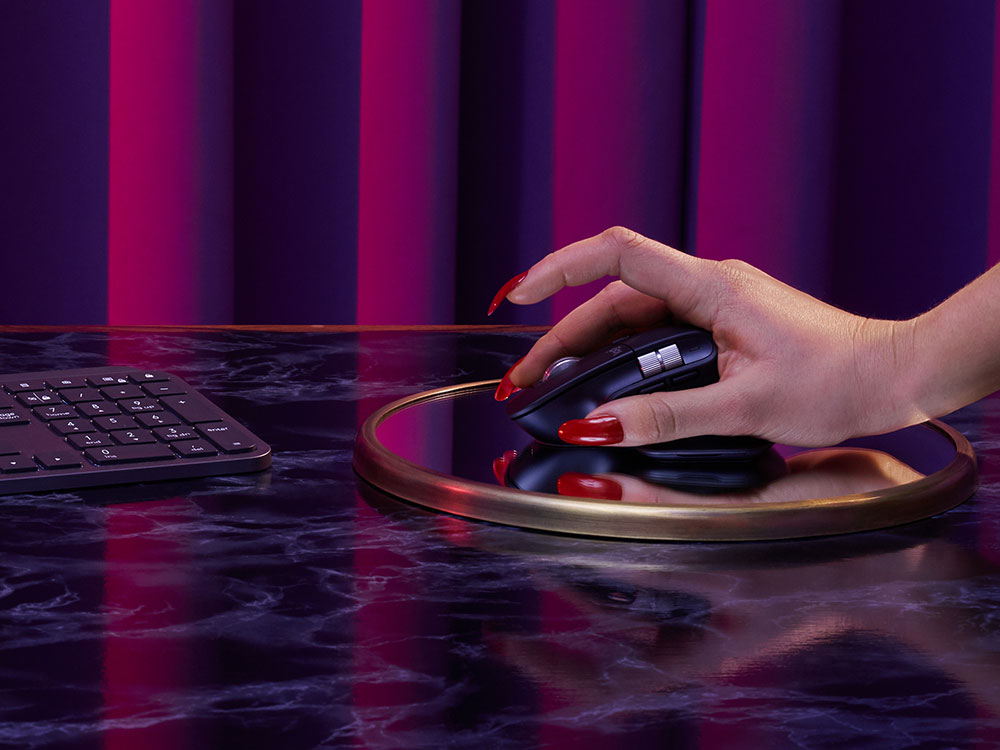
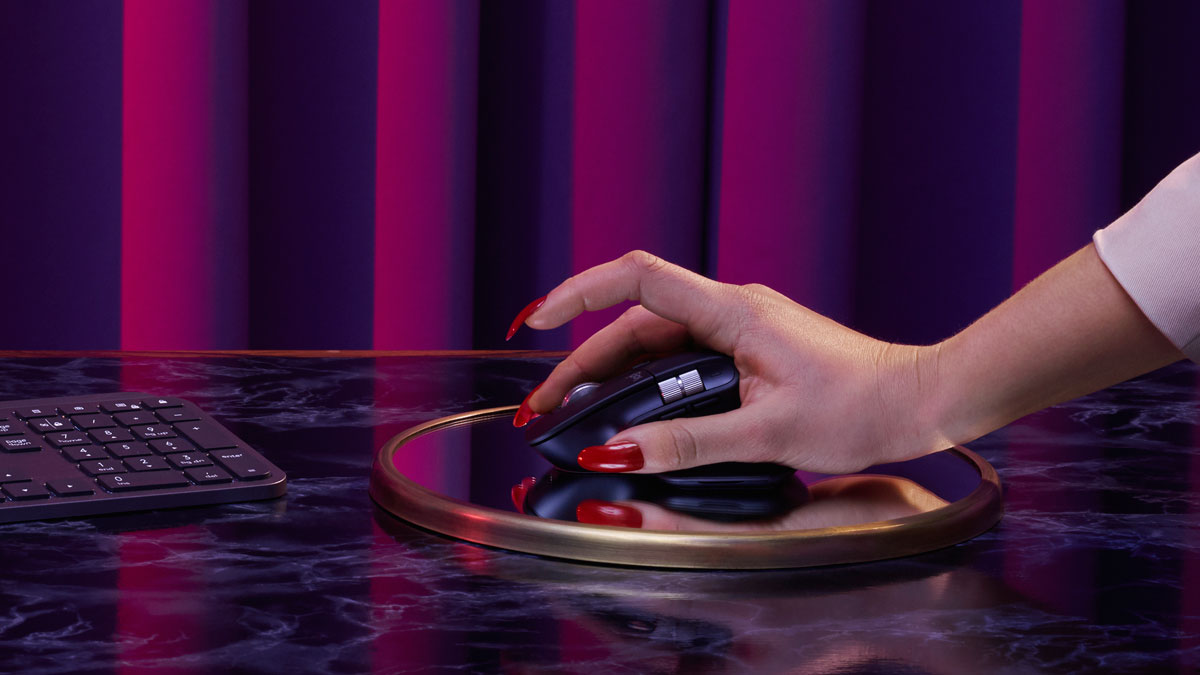
Use featured image for teasers

diff --git a/_layouts/case.html b/_layouts/case.html
@@ -36,8 +36,8 @@ layout: default
           <div class="Teaser Teasers-teaser">
             <a href="{{ case.url }}" class="Teaser-link">
               <picture class="Teaser-image">
-                <source srcset="/images/cases/{{ case.title | slugify: "latin" }}/teaser.jpg 750w" sizes="100vw">
-                <img alt="" src="/images/cases/{{ case.title | slugify: "latin" }}/teaser.jpg" class="Teaser-imageObject">
+                <source srcset="/images/cases/{{ case.title | slugify: "latin" }}/featured.jpg 750w" sizes="100vw">
+                <img alt="" src="/images/cases/{{ case.title | slugify: "latin" }}/featured.jpg" class="Teaser-imageObject">
               </picture>
               <div class="Teaser-body">
                 <div class="Label Label--small Teaser-label">{{ case.client }}</div>

diff --git a/case.html b/case.html
@@ -28,8 +28,8 @@ color4: "#940797"
         <div class="Teaser Teasers-teaser">
           <a href="{{ case.url }}" class="Teaser-link">
             <picture class="Teaser-image">
-              <source srcset="/images/cases/{{ case.title | slugify: "latin" }}/teaser.jpg 750w" sizes="100vw">
-              <img alt="" src="/images/cases/{{ case.title | slugify: "latin" }}/teaser.jpg" class="Teaser-imageObject">
+              <source srcset="/images/cases/{{ case.title | slugify: "latin" }}/featured.jpg 750w" sizes="100vw">
+              <img alt="" src="/images/cases/{{ case.title | slugify: "latin" }}/featured.jpg" class="Teaser-imageObject">
             </picture>
             <div class="Teaser-body">
               <div class="Label Label--small Teaser-label">{{ case.client }}</div>

diff --git a/index.html b/index.html
@@ -44,8 +44,8 @@ clean_title: true
         <div class="Teaser Teasers-teaser">
           <a href="{{ case.url }}" class="Teaser-link">
             <picture class="Teaser-image">
-              <source srcset="/images/cases/{{ case.title | slugify: "latin" }}/teaser.jpg 750w" sizes="100vw">
-              <img alt="" src="/images/cases/{{ case.title | slugify: "latin" }}/teaser.jpg" class="Teaser-imageObject">
+              <source srcset="/images/cases/{{ case.title | slugify: "latin" }}/featured.jpg 750w" sizes="100vw">
+              <img alt="" src="/images/cases/{{ case.title | slugify: "latin" }}/featured.jpg" class="Teaser-imageObject">
             </picture>
             <div class="Teaser-body">
               <div class="Label Label--small Teaser-label">{{ case.client }}</div>

diff --git a/_includes/case.html b/_includes/case.html
@@ -3,8 +3,8 @@
     <div class="Section-imageWrapper">
       <figure class="Section-imageFigure">
         <picture class="Section-image">
-          <source srcset="/images/cases/{{ include.title | slugify: "latin" }}/teaser.jpg 750w" sizes="100vw">
-          <img alt="" src="/images/cases/{{ include.title | slugify: "latin" }}/teaser.jpg" class="Section-imageObject">
+          <source srcset="/images/cases/{{ include.title | slugify: "latin" }}/featured.jpg 750w" sizes="100vw">
+          <img alt="" src="/images/cases/{{ include.title | slugify: "latin" }}/featured.jpg" class="Section-imageObject">
         </picture>
       </figure>
     </div>
